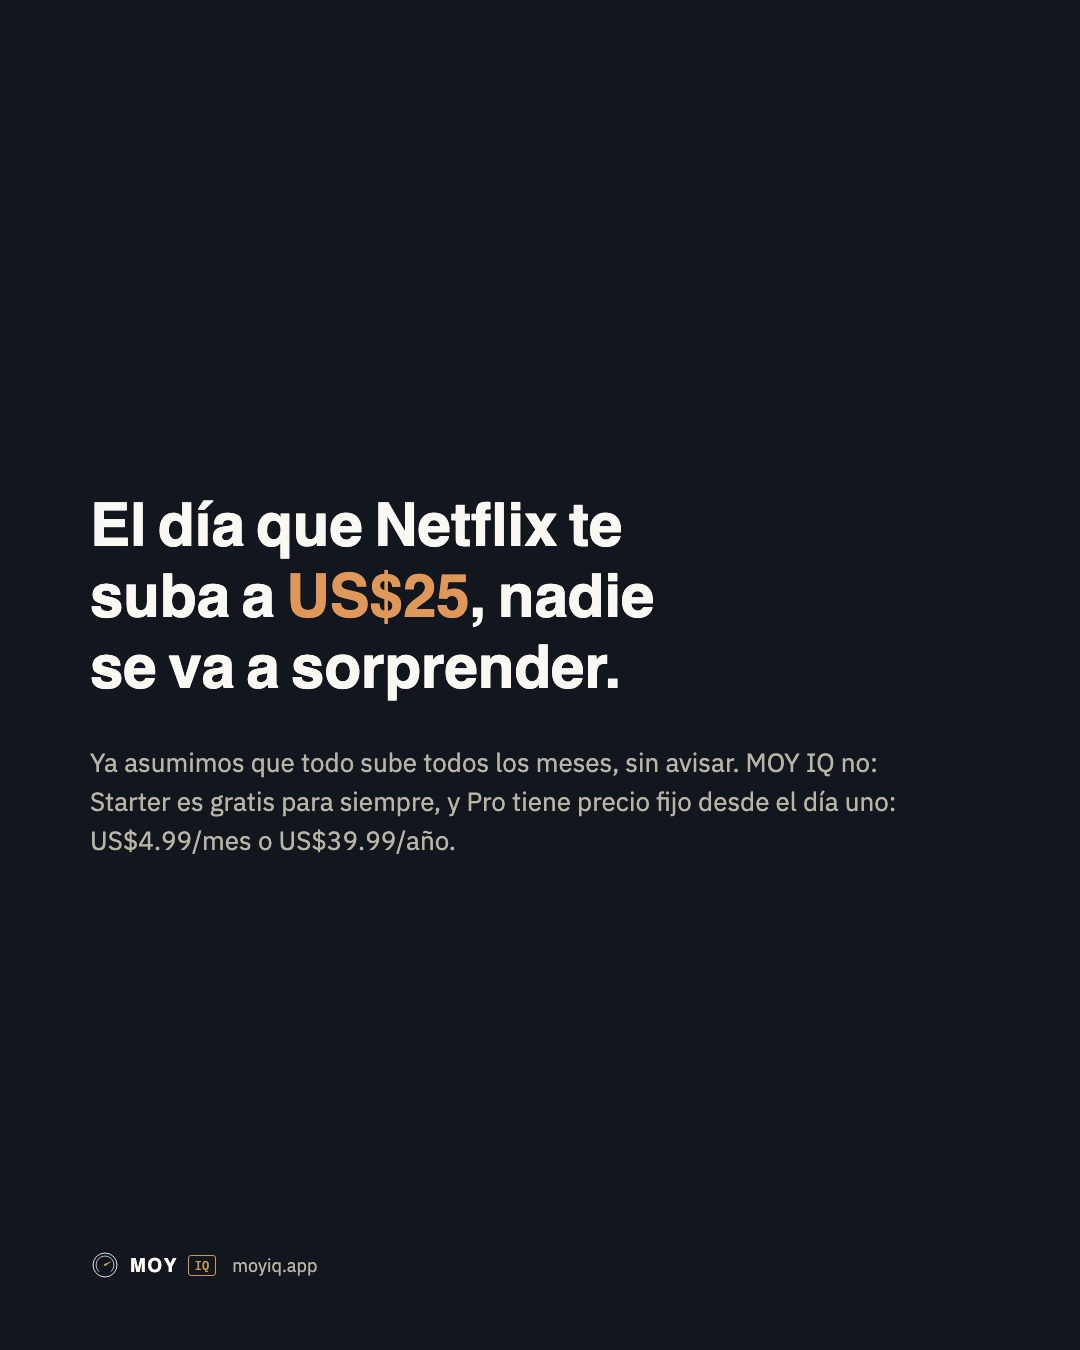
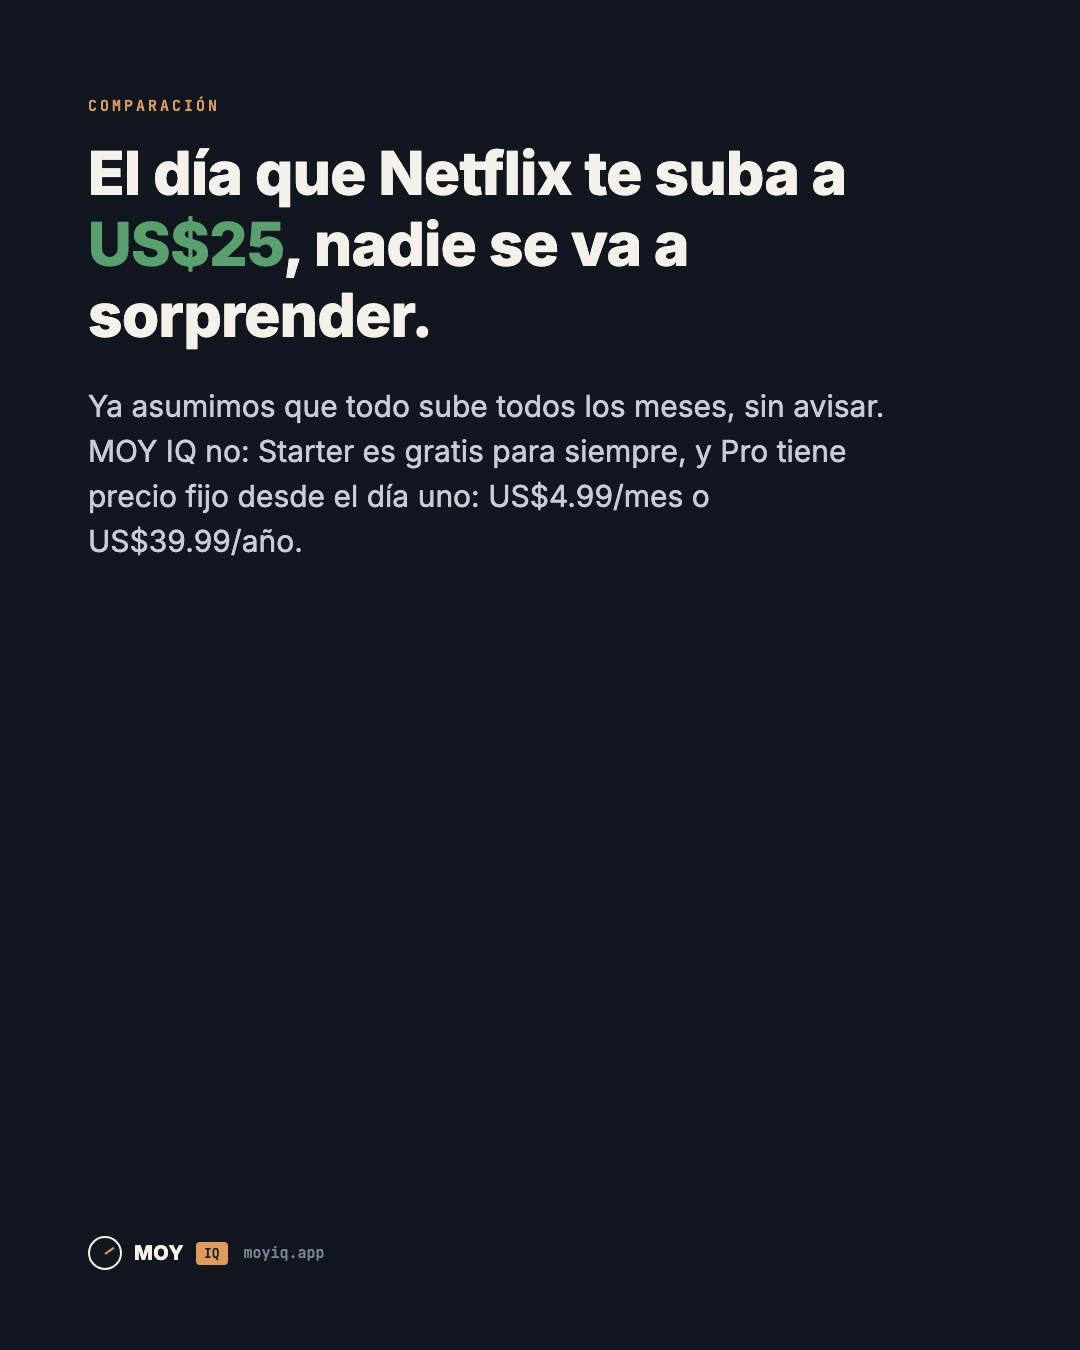
Fix dark-quote template: body text too small, block off-center
post-06-netflix.jpg regenerated with the corrected layout (body 22px -> 30px,
block anchored top instead of floating mid/low). Adds reusable HTML source
so future dark-quote posts don't need to be reconstructed from scratch.

Changed region(s): [[0.0611, 0.0622, 0.825, 0.5289], [0.0917, 0.56, 0.825, 0.6533], [0.0917, 0.9022, 0.3056, 0.9644]]

diff --git a/templates/dark-quote.html b/templates/dark-quote.html
@@ -1,0 +1,84 @@
+<!doctype html>
+<html>
+<head>
+<meta charset="utf-8">
+<style>
+  @import url('https://fonts.googleapis.com/css2?family=Inter:wght@400;600;700;800&family=JetBrains+Mono:wght@500;600&display=swap');
+
+  * { margin:0; padding:0; box-sizing:border-box; }
+  html,body { width:1080px; height:1350px; background:#12161f; }
+  .canvas {
+    width:1080px; height:1350px;
+    background:#12161f;
+    position:relative;
+    font-family:'Inter', sans-serif;
+    padding: 96px 88px;
+  }
+  .eyebrow {
+    font-family:'JetBrains Mono', monospace;
+    font-weight:600;
+    font-size:15px;
+    letter-spacing:3px;
+    color:#e09b5a;
+    text-transform:uppercase;
+    margin-bottom:22px;
+  }
+  h1 {
+    font-weight:800;
+    font-size:60px;
+    line-height:1.18;
+    color:#f4f1ea;
+    max-width:880px;
+    letter-spacing:-0.5px;
+  }
+  h1 .accent { color:#5aa06e; }
+  p.body {
+    margin-top:34px;
+    font-size:30px;
+    line-height:1.5;
+    color:#c7ccd6;
+    max-width:800px;
+    font-weight:400;
+  }
+  .footer {
+    position:absolute;
+    left:88px; right:88px; bottom:80px;
+    display:flex; align-items:center; gap:12px;
+  }
+  .logo-badge {
+    width:34px; height:34px; border-radius:50%;
+    border:2px solid #f4f1ea;
+    display:flex; align-items:center; justify-content:center;
+    position:relative;
+  }
+  .logo-badge::after{
+    content:''; position:absolute; width:11px; height:2px; background:#e09b5a;
+    top:50%; left:50%; transform-origin:left center; transform:rotate(-35deg);
+  }
+  .logo-text {
+    font-weight:800; font-size:20px; color:#f4f1ea; letter-spacing:0.5px;
+  }
+  .logo-tag {
+    font-family:'JetBrains Mono', monospace; font-weight:600; font-size:13px;
+    color:#12161f; background:#e09b5a; padding:3px 8px; border-radius:4px;
+  }
+  .footer-domain {
+    font-family:'JetBrains Mono', monospace; font-size:15px; color:#7d8494;
+    margin-left:4px;
+  }
+</style>
+</head>
+<body>
+  <div class="canvas">
+    <div class="eyebrow">Comparación</div>
+    <h1>El día que Netflix te suba a <span class="accent">US$25</span>, nadie se va a sorprender.</h1>
+    <p class="body">Ya asumimos que todo sube todos los meses, sin avisar. MOY IQ no: Starter es gratis para siempre, y Pro tiene precio fijo desde el día uno: US$4.99/mes o US$39.99/año.</p>
+    <div class="footer">
+      <div class="logo-badge"></div>
+      <div class="logo-text">MOY</div>
+      <div class="logo-tag">IQ</div>
+      <div class="footer-domain">moyiq.app</div>
+    </div>
+  </div>
+</body>
+</html>

diff --git a/templates/README.md b/templates/README.md
@@ -1,0 +1,23 @@
+# Templates
+
+`dark-quote.html` — plantilla oscura tipo "quote" (título + párrafo, sin cards de datos).
+Usada por posts como netflix, paradoja, manifiesto.
+
+Fix 24-sep-2026: el párrafo de cuerpo estaba en ~22px y el bloque quedaba
+descentrado verticalmente (mucho espacio vacío arriba o abajo según el post).
+Se subió el body a 30px y se ancló el bloque arriba (mismo criterio que las
+plantillas claras con cards), dejando el logo fijo abajo.
+
+Para generar un post nuevo: duplicar el HTML, cambiar eyebrow/título/párrafo/
+acento, servir con `python3 -m http.server` y capturar con Playwright a
+1080x1350 (ver ejemplo abajo). No usar Higgsfield para este tipo de post
+estático de texto — reservar los créditos para lo que sí lo necesite.
+
+```js
+const { chromium } = require('playwright');
+const browser = await chromium.launch();
+const page = await browser.newPage({ viewport: { width: 1080, height: 1350 } });
+await page.goto('http://localhost:PORT/mi-post.html');
+await page.screenshot({ path: 'post-XX-nombre.jpg', type: 'jpeg', quality: 95 });
+await browser.close();
+```
